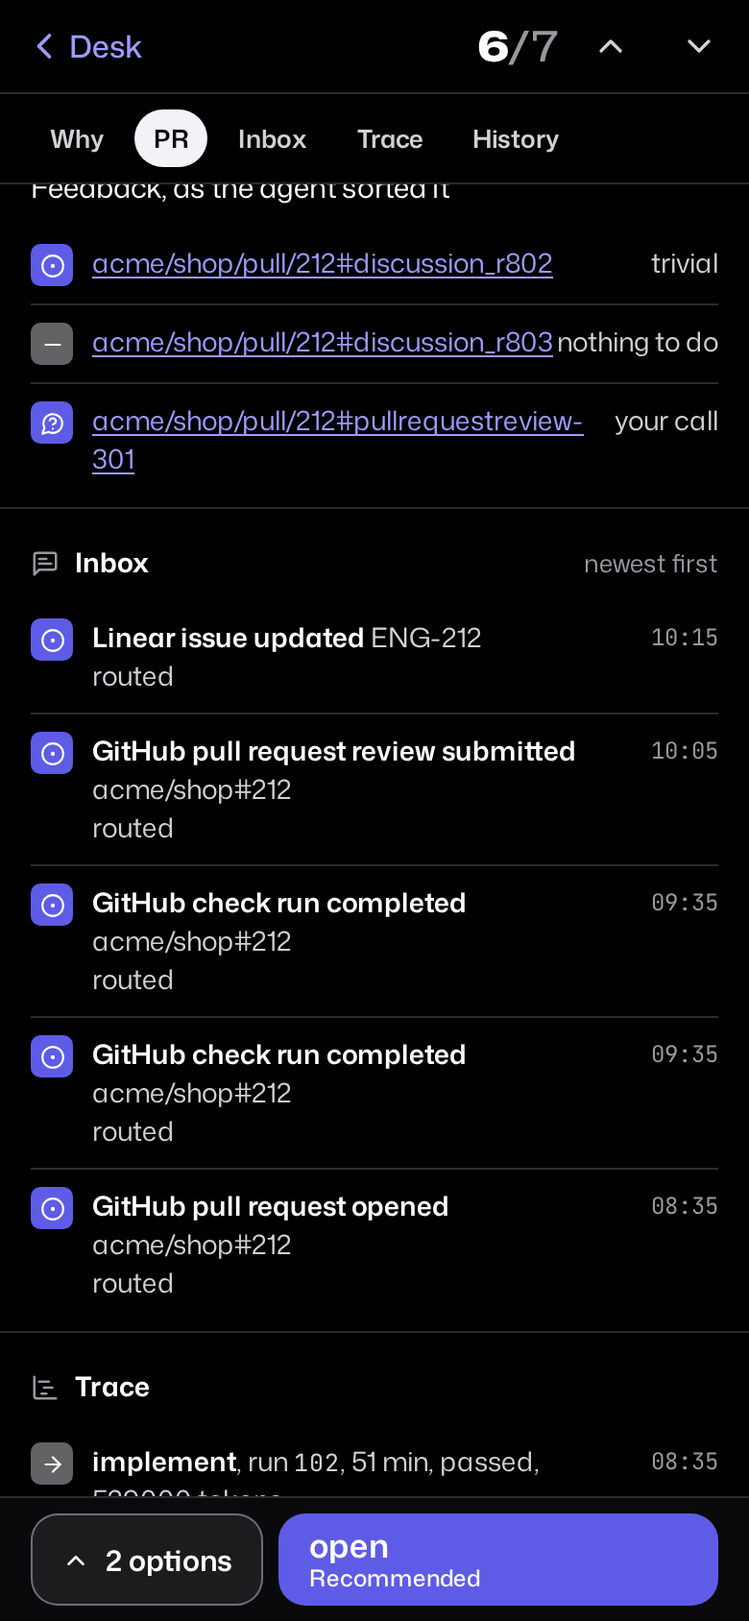
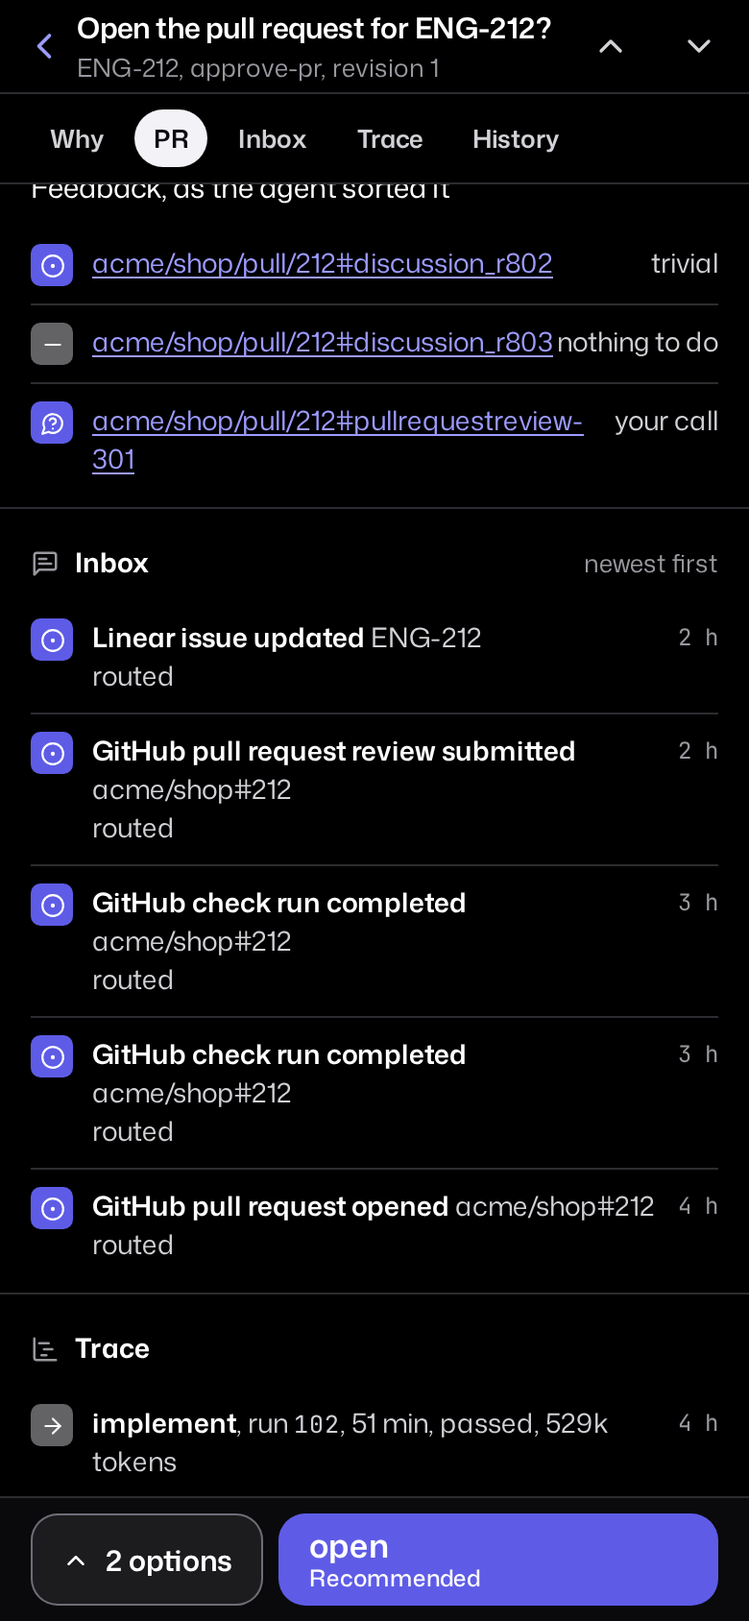
Keep the phone's ask header, capsule, rows and small links usable (#322)
* Keep the phone's ask header, capsule, rows and small links usable

On a phone, the ask detail's header now shrinks to the question over
its task key, step and revision once the options scroll away, as
DESIGN.md asks. Offline, the Answer capsule leaves the primary look and
reads "Read 7 asks, offline". Task rows name the step once when it is
the workflow's name and wrap a long step instead of cutting it. The ask
and batch context lines, task keys in rows and another runner's chevron
take a 44 px hit area on coarse pointers.

The design review's m3 "0 min ago" was already fixed on main.

* Shrink the ask header only past the options, and scope the wider hit areas

The header shrank whenever the options were out of view, including
below the fold on opening, and lost its shrink while an answer was
sending. It now shrinks once the options pass above the view, with or
without the answer bar. The collapsed back link keeps 44 px.

A row's task key no longer takes a hit area that could cover a link on
the row's second line; only the batch page's keys and the context lines
do. A step wraps long words instead of overflowing.

diff --git a/crates/priory-core/web/app.js b/crates/priory-core/web/app.js
@@ -1,6 +1,6 @@
 // Priory's web view (DESIGN.md): the frame, the Desk and the Asks, with answering through the CLI's verbs.
 // Agent text is untrusted: every value goes through `html`, which escapes it.
-import { ARM_MS, ASK_VIEWS, answeredBy, askGroups, openAsksOf, routedMark, routedNote, runnerOf, seenAgo, sentNote, shownGroups, snoozeShortcut, snoozed, stillArmed, submitted, takesText, writeNote } from "./asks.js";
+import { ARM_MS, ASK_VIEWS, answeredBy, askGroups, openAsksOf, routedMark, routedNote, runnerOf, seenAgo, sentNote, shownGroups, shrunkHead, snoozeShortcut, snoozed, stillArmed, submitted, takesText, writeNote } from "./asks.js";
 import { SPLITS, attentionView, costTiles, dayBars, money, scoreTable, splitTable } from "./costs.js";
 import { addBody, addOutcome } from "./add.js";
 import { linked } from "./links.js";
@@ -11,8 +11,8 @@ import { KINDS, edgeStyle, historyRows, lockBadge, nodeShape, timeline, ungatedP
 import { emptyDetail, eventWords, handled, neverOwned, sinceWords, routeAction, unheardActs, unheardNote, unroutedNote } from "./inbox.js";
 import { editBody, issueName, laneLayout, momentWords, stages, successors } from "./batches.js";
 import { EARLIER_CAP, KEYS, keyboardSession, paintRows, sayLine, screenRows, screenWatch } from "./terminal.js";
-import { actionNote, batchParts, countWords, dueParts, memoryNote, memoryTag, mergeSince, nextLink, onRoom, progressView, rowAction, sectionInView, sinceGroups } from "./desk.js";
-import { TASK_VIEWS, elsewhere, filtered, olderPart, remoteActs, remoteId, remoteSent, taskFacets, taskLabel, taskViews, triageWords } from "./tasks.js";
+import { actionNote, batchParts, capsuleWords, countWords, dueParts, memoryNote, memoryTag, mergeSince, nextLink, onRoom, progressView, rowAction, sectionInView, sinceGroups } from "./desk.js";
+import { TASK_VIEWS, elsewhere, filtered, olderPart, remoteActs, remoteId, remoteSent, taskFacets, taskLabel, taskViews, triageWords, workStep } from "./tasks.js";
 import { RUN_FACETS, RUN_VIEWS, duration, runState, runViews, tokenText } from "./runs.js";
 import { PANELS, backTo, pageTitle } from "./pages.js";
 import { QUEUE_VIEWS, moveOptions, queueBands, waitReason } from "./queue.js";
@@ -579,7 +579,7 @@ function asleepRow(task) {
   const waits = (task.waits || []).map((wait) => `${wait.kind} ${wait.on}, ${age(wait.since)}`).join("; ");
   return html`<a class="row" href="/tasks/${task.id}">
     ${tile("asleep")}
-    <span class="l1"><span class="mono">${taskLabel(task.key)}</span><span>${task.workflow} ${task.step}</span><span>asleep</span>${prsTag(task)}<span class="age">${timeTag(task.since)}</span></span>
+    <span class="l1"><span class="mono">${taskLabel(task.key)}</span><span>${workStep(task)}</span><span>asleep</span>${prsTag(task)}<span class="age">${timeTag(task.since)}</span></span>
     <span class="l2 r">${task.title || task.lane || ""}</span>
     <span class="l3"><span>${waits ? `Waits on ${waits}` : "Waits on an ask"}</span></span>
     <span class="chev">${icon("chevron-right", "s15")}</span></a>`;
@@ -595,7 +595,7 @@ const prsTag = (task, id) => {
 function taskRow(task) {
   return html`<div class="row">
     ${tile(task.state)}
-    <span class="l1"><span class="mono">${taskLabel(task.key)}</span><span>${task.workflow} ${task.step}</span><span>${task.state}</span>${prsTag(task)}<span class="age">${timeTag(task.since)}</span></span>
+    <span class="l1"><span class="mono">${taskLabel(task.key)}</span><span>${workStep(task)}</span><span>${task.state}</span>${prsTag(task)}<span class="age">${timeTag(task.since)}</span></span>
     <span class="l2 r ${task.reason ? `t-${role(task.state)}` : ""}">${autolinked(task.reason || task.tldr || task.title || task.lane || "", task.repo)}</span></div>`;
 }
 
@@ -855,7 +855,8 @@ const addButton = (kind) => html`<button class="${kind}" data-action="add-open" 
 // On a phone the Add button sits beside the capsule, or alone where the capsule hides.
 function capsule(model) {
   const n = model.open.length;
-  const answer = n && deskView() === "needs" ? html`<a class="capsule" href="/asks/${model.first.id}">${icon("ask", "s20")}Answer ${n} ${n === 1 ? "ask" : "asks"}</a>` : "";
+  const words = capsuleWords(n, Boolean(state.failed));
+  const answer = n && deskView() === "needs" ? html`<a class="capsule ${words.off ? "off" : ""}" href="/asks/${model.first.id}">${icon(words.icon, "s20")}${words.text}</a>` : "";
   return html`<div class="fade"></div><div class="dock">${answer}${addButton("fab")}</div>`;
 }
 
@@ -965,7 +966,7 @@ function taskListRow(task) {
   if (elsewhere(task, ago)) return remoteListRow(task);
   const line3 = reasonShown(task) ? html`<span class="t-${role(task.state)}">${task.reason}</span>${batchTag(task)}` : html`<span>${task.lane || ""}</span><span>${task.band || ""}</span>${batchTag(task)}`;
   return html`<div class="row" data-href="/tasks/${task.id}">${tile(task.state)}
-    <span class="l1"><a class="mono" href="/tasks/${task.id}" title="task ${task.id}">${taskLabel(task.key)}</a><span>${task.workflow} ${task.step}</span><span>${task.state}</span>${prsTag(task)}<span class="age">${timeTag(task.since)}</span></span>
+    <span class="l1"><a class="mono" href="/tasks/${task.id}" title="task ${task.id}">${taskLabel(task.key)}</a><span>${workStep(task)}</span><span>${task.state}</span>${prsTag(task)}<span class="age">${timeTag(task.since)}</span></span>
     <span class="l2 r">${task.title || task.tldr || ""}</span><span class="l3">${line3}</span><span class="chev">${icon("chevron-right", "s15")}</span></div>`;
 }
 
@@ -1111,8 +1112,9 @@ function askDetail(id, wide) {
   const nav = (to, label, name) => (to
     ? html`<a class="iconbtn" href="/asks/${to.id}" aria-label="${label}">${icon(name, "s20")}</a>`
     : html`<span class="iconbtn" aria-disabled="true" aria-label="${label}">${icon(name, "s20")}</span>`);
+  const shrunk = shrunkHead(ask);
   const header = html`<div class="ahead">
-    ${wide ? html`<span class="ctx">${tile("ask", "sm")}<span>ask <span class="mono">#${ask.id}</span></span><span>revision ${ask.revision}</span><span>${timeTag(ask.since)}</span></span>` : html`<a class="back" href="${back[0]}">${icon("chevron-left", "s22")}${back[1]}</a>`}
+    ${wide ? html`<span class="ctx">${tile("ask", "sm")}<span>ask <span class="mono">#${ask.id}</span></span><span>revision ${ask.revision}</span><span>${timeTag(ask.since)}</span></span>` : html`<a class="back" href="${back[0]}" aria-label="${back[1]}">${icon("chevron-left", "s22")}<span>${back[1]}</span></a><span class="aq" aria-hidden="true"><b>${shrunk.question}</b><small>${shrunk.place}</small></span>`}
     ${at >= 0 ? html`<span class="pos num">${at + 1}<span>/${open.length}</span></span>` : html`<span class="sp"></span>`}
     ${nav(open[at - 1], "Previous ask", "chevron-up")}${nav(open[at + 1], "Next ask", "chevron-down")}
     ${wide ? html`<a class="iconbtn" href="${back[0]}" aria-label="Close">${icon("x", "s20")}</a>` : ""}</div>`;
@@ -1478,7 +1480,7 @@ function taskPage(id) {
     <textarea id="say" name="text" rows="2" placeholder="Say to the agent">${state.sayDrafts.get(task.id) || ""}</textarea><button class="btn primary" ${said}>Say</button></form>`;
   const sections = taskSections(task).map(([, , section]) => section);
   return html`${back}<div class="scroll"><div class="ask task">
-    <p class="ctx">${tile(task.state, "sm")}<span class="mono">${taskLabel(task.key)}</span><span>${task.state}</span><span>${task.workflow} ${task.step}</span><span>${task.lane || ""}</span><span>${task.band || ""}</span>${task.batch == null ? "" : html`<a href="/batches/${task.batch}">batch ${task.batch}</a>`}</p>
+    <p class="ctx">${tile(task.state, "sm")}<span class="mono">${taskLabel(task.key)}</span><span>${task.state}</span><span>${workStep(task)}</span><span>${task.lane || ""}</span><span>${task.band || ""}</span>${task.batch == null ? "" : html`<a href="/batches/${task.batch}">batch ${task.batch}</a>`}</p>
     <h1 class="question">${autolinked(task.tldr || task.brief?.title || task.brief?.request?.split("\n")[0] || taskLabel(task.key), task.repo)}</h1>
     ${task.reason ? html`<p class="text t-${role(task.state)}">${autolinked(task.reason, task.repo)}</p>` : ""}
     ${taskAsks(task)}${taskActs(task.id, task.state)}${say}</div>${sections}${terminalSection(task)}</div>`;
@@ -2389,7 +2391,7 @@ function addedTask() {
   return html`<div class="added" role="status">
     <p class="line">Added. The task waits in the queue for its turn.</p>
     <div class="row">${tile(task.state)}
-      <span class="l1"><span class="mono">${taskLabel(task.key)}</span><span>${[task.workflow, task.step !== task.workflow && task.step].filter(Boolean).join(", ")}</span><span class="age">${task.state}</span></span>
+      <span class="l1"><span class="mono">${taskLabel(task.key)}</span><span>${workStep(task)}</span><span class="age">${task.state}</span></span>
       <span class="l2">${task.brief?.request || task.brief?.title || (id === null ? "No task took this key yet. It shows on the Desk once one does." : "")}</span>
       <span class="l3">${[task.band, task.lane].filter(Boolean).join(", ")}</span></div>
     <div class="acts"><button class="btn secondary" data-action="add-another">Add another</button><button class="btn primary" data-action="add-done">Close</button></div></div>`;
@@ -3039,8 +3041,13 @@ function watchSections(app) {
     }
     const options = scroller.querySelector(".opts");
     const bar = app.querySelector(".abar");
-    if (!options || !bar) continue;
-    track(new IntersectionObserver(([entry]) => { bar.hidden = entry.isIntersecting; }, { root: scroller })).observe(options);
+    const head = app.querySelector(".ahead:has(.aq)");
+    if (!options || !(bar || head)) continue;
+    track(new IntersectionObserver(([entry]) => {
+      if (bar) bar.hidden = entry.isIntersecting;
+      // Only options scrolled past shrink the header; options still below the fold leave it whole.
+      head?.classList.toggle("shrunk", !entry.isIntersecting && entry.boundingClientRect.bottom <= (entry.rootBounds?.top ?? 0));
+    }, { root: scroller })).observe(options);
   }
 }
 

diff --git a/crates/priory-core/web/app.css b/crates/priory-core/web/app.css
@@ -114,11 +114,13 @@ a.facet[aria-current="true"] { background: var(--action-soft); color: var(--acti
 .row:active { background: var(--raised); }
 .row[aria-current="true"] { background: var(--action-soft); box-shadow: inset 3px 0 var(--action); }
 .row .tile { grid-row: 1 / 4; margin-top: 2px; }
-.row .l1 { display: flex; gap: 8px; align-items: baseline; font: 400 var(--type-caption) var(--font-ui); color: var(--text-3); min-width: 0; }
+.row .l1 { display: flex; gap: 2px 8px; align-items: baseline; font: 400 var(--type-caption) var(--font-ui); color: var(--text-3); min-width: 0; }
 .row .l1 .mono { color: var(--text); }
 .row .l1 .tag.routed { min-width: 0; overflow: hidden; text-overflow: ellipsis; }
 .row .l1 .tag.runner, .row .l1:has(.tag.runner) > .mono { flex: none; }
-.row .l1:has(.tag.runner) > span:nth-child(2) { min-width: 5ch; overflow: hidden; text-overflow: ellipsis; white-space: nowrap; }
+/* A step never truncates: its words wrap in place, and a row with tags wraps its tags first. */
+.row .l1:has(.tag) { flex-wrap: wrap; }
+.row .l1:has(.tag) > span:nth-child(2) { flex: 0 1 auto; min-width: 0; overflow-wrap: anywhere; }
 .row .l1 .age { margin-left: auto; white-space: nowrap; }
 .row .l2 { grid-column: 2; font: 500 var(--type-body) var(--font-ui); display: -webkit-box; -webkit-line-clamp: 2; -webkit-box-orient: vertical; overflow: hidden; overflow-wrap: anywhere; }
 .row .l2.r { font-size: 14px; }
@@ -155,6 +157,7 @@ a.facet[aria-current="true"] { background: var(--action-soft); color: var(--acti
 
 /* Answer capsule */
 .capsule { position: absolute; left: var(--gutter); right: var(--gutter); bottom: var(--capsule-gap); height: var(--capsule); border-radius: var(--radius-full); background: var(--action); color: var(--on-action); display: flex; align-items: center; justify-content: center; gap: 8px; font: 600 var(--type-option) var(--font-ui); box-shadow: var(--shadow-float); z-index: 2; }
+.capsule.off { background: var(--surface); color: var(--warn-text); box-shadow: var(--shadow-float), inset 0 0 0 1px var(--control-line); }
 .fade { position: absolute; left: 0; right: 0; bottom: 0; height: var(--desk-end); background: linear-gradient(to bottom, transparent, var(--bar) 45%); z-index: 1; pointer-events: none; }
 
 /* Ask: question, recommendation, options */
@@ -178,6 +181,14 @@ a.facet[aria-current="true"] { background: var(--action-soft); color: var(--acti
 .pos span { color: var(--text-3); font-weight: 500; }
 .ahead .iconbtn { width: 40px; color: var(--text-2); }
 .ahead .iconbtn[aria-disabled="true"] { color: var(--text-3); opacity: 0.5; }
+/* Once the options scroll away on a phone, the header shrinks to the question over its place. */
+.ahead .aq { display: none; flex: 1; min-width: 0; flex-direction: column; gap: 1px; }
+.ahead .aq b, .ahead .aq small { overflow: hidden; text-overflow: ellipsis; white-space: nowrap; }
+.ahead .aq b { font: 600 var(--type-body) var(--font-ui); }
+.ahead .aq small { font: 400 var(--type-caption) var(--font-ui); color: var(--text-3); }
+.ahead.shrunk .aq { display: flex; }
+.ahead.shrunk .back { min-width: var(--control); justify-content: center; padding: 0; }
+.ahead.shrunk .back span, .ahead.shrunk .pos { display: none; }
 .ask { display: flex; flex-direction: column; gap: 14px; padding: 4px var(--gutter) 16px; }
 .taskasks { display: grid; gap: 8px; }
 .taskasks li { display: grid; grid-template-columns: auto minmax(0, 1fr) auto; gap: 10px; align-items: center; padding: 10px 12px; border: 1px solid var(--line); border-radius: var(--radius-md); font: 500 var(--type-small) var(--font-ui); overflow-wrap: anywhere; }
@@ -376,8 +387,8 @@ textarea { font: 400 16px/22px var(--font-ui); color: var(--text); background: v
 .opt[aria-disabled="true"]:not(.rec-opt):not(.chosen), .abar .btn.secondary[aria-disabled="true"] { color: var(--text-3); }
 .medium.no-drawer, .compact.no-drawer { display: flex; flex-direction: column; }
 @media (pointer: coarse) {
-  .views a, .jump a, .facet > summary, a.facet { position: relative; }
-  .views a::after, .jump a::after, .facet > summary::after, a.facet::after {
+  .views a, .jump a, .facet > summary, a.facet, a.ctx, .ctx a, .erow .l1 a.mono, .remote .chev { position: relative; }
+  .views a::after, .jump a::after, .facet > summary::after, a.facet::after, a.ctx::after, .ctx a::after, .erow .l1 a.mono::after, .remote .chev::after {
     content: ""; position: absolute;
     inset: calc(50% - var(--control) / 2) min(0px, calc(50% - var(--control) / 2));
   }
@@ -414,7 +425,7 @@ textarea { font: 400 16px/22px var(--font-ui); color: var(--text); background: v
 .row .l1 a.mono { color: var(--text); text-decoration: underline; text-underline-offset: 2px; }
 .row .acts-note { grid-column: 2; }
 .row.remote, .tbl tr.remote { cursor: pointer; }
-.remote .chev { background: none; border: 0; padding: 0; color: var(--text-3); cursor: pointer; }
+.remote .chev { min-width: 24px; min-height: 24px; display: inline-grid; place-items: center; background: none; border: 0; padding: 0; color: var(--text-3); cursor: pointer; }
 .tbl tr.remote .chev { vertical-align: -3px; }
 .row.remote .writeform { grid-column: 2; padding-left: 0; margin-top: var(--space-1); }
 .tbl tr.remote-acts td { border-top: 0; height: auto; padding-bottom: var(--space-3); white-space: normal; overflow: visible; cursor: default; }
@@ -629,7 +640,7 @@ textarea { font: 400 16px/22px var(--font-ui); color: var(--text); background: v
 .row .l1 a.mono { text-decoration: none; }
 .tbl td.mono a { color: inherit; text-decoration: none; }
 .row[data-href] .l1 > * { white-space: nowrap; flex: none; }
-.row[data-href] .l1 > span:nth-child(2) { flex: 0 1 auto; min-width: 0; overflow: hidden; text-overflow: ellipsis; }
+.row[data-href] .l1 > span:nth-child(2) { flex: 0 1 auto; min-width: 0; white-space: normal; overflow-wrap: anywhere; }
 .row[data-href] .l3 > span { overflow: hidden; text-overflow: ellipsis; }
 .row .l3 .tag .ico, .tbl .tag .ico { margin-right: 3px; vertical-align: -2px; }
 .tbl .t3 { color: var(--text-3); }

diff --git a/crates/priory-core/web/asks.test.js b/crates/priory-core/web/asks.test.js
@@ -1,6 +1,6 @@
 import { test } from "node:test";
 import assert from "node:assert/strict";
-import { ASK_VIEWS, answeredBy, askGroups, routedMark, routedNote, runnerOf, submitted, seenAgo, sentNote, shownGroups, snoozeShortcut, stillArmed, takesText, openAsksOf, writeNote } from "./asks.js";
+import { ASK_VIEWS, answeredBy, askGroups, routedMark, routedNote, runnerOf, submitted, seenAgo, sentNote, shownGroups, snoozeShortcut, stillArmed, takesText, openAsksOf, writeNote, shrunkHead } from "./asks.js";
 
 const now = Date.parse("2026-11-20T12:00:00Z");
 const ask = (id, fields) => ({ id, state: "open", snoozed_until: null, ...fields });
@@ -163,4 +163,9 @@ test("a task page lists its task's open asks, snoozed ones too, oldest first", (
   ];
   assert.deepEqual(openAsksOf(asks, 7).map((ask) => ask.id), [3, 4]);
   assert.deepEqual(openAsksOf(asks, 9), []);
+});
+
+test("the shrunk header names the question over the task key, step and revision", () => {
+  assert.deepEqual(shrunkHead({ key: "linear:ENG-212", step: "approve-pr", revision: 2, title: "Open the pull request", question: "Open the pull request for ENG-212?" }), { question: "Open the pull request for ENG-212?", place: "ENG-212, approve-pr, revision 2" });
+  assert.deepEqual(shrunkHead({ key: null, step: "deploy", revision: 1, title: "Deploy", question: null }), { question: "Deploy", place: "deploy, revision 1" });
 });

diff --git a/crates/priory-core/web/desk.test.js b/crates/priory-core/web/desk.test.js
@@ -1,6 +1,6 @@
 import { test } from "node:test";
 import assert from "node:assert/strict";
-import { nextLink, onRoom, sinceGroups, mergeSince, progressView, sectionInView, dueText, rowAction, actionNote, batchParts, countWords, memoryNote, memoryTag } from "./desk.js";
+import { nextLink, onRoom, sinceGroups, mergeSince, progressView, sectionInView, dueText, rowAction, actionNote, batchParts, countWords, memoryNote, memoryTag, capsuleWords } from "./desk.js";
 
 const why = "work stopped and waits on a person";
 
@@ -151,4 +151,10 @@ test("the Desk's count line names every item Needs me counts besides the asks", 
   assert.equal(countWords({ oldest: null, stopped: 0, todos: 2, reports: 1, other: 0 }), "Also 2 to-dos and 1 report.");
   assert.equal(countWords({ oldest: null, stopped: 2, todos: 1, reports: 3, other: 1 }), "Also 2 stopped, 1 to-do, 3 reports and 1 waiting.");
   assert.equal(countWords({ ...none, oldest: null }), "");
+});
+
+test("the capsule answers while live, and only reads the asks while offline", () => {
+  assert.deepEqual(capsuleWords(7, false), { text: "Answer 7 asks", icon: "ask", off: false });
+  assert.deepEqual(capsuleWords(1, false), { text: "Answer 1 ask", icon: "ask", off: false });
+  assert.deepEqual(capsuleWords(7, true), { text: "Read 7 asks, offline", icon: "unplug", off: true });
 });

diff --git a/crates/priory-core/web/tasks.test.js b/crates/priory-core/web/tasks.test.js
@@ -1,6 +1,6 @@
 import { test } from "node:test";
 import assert from "node:assert/strict";
-import { TASK_FACETS, TASK_VIEWS, elsewhere, filtered, olderPart, remoteActs, remoteId, remoteSent, taskFacets, taskLabel, taskViews, triageWords } from "./tasks.js";
+import { TASK_FACETS, TASK_VIEWS, elsewhere, filtered, olderPart, remoteActs, remoteId, remoteSent, taskFacets, taskLabel, taskViews, triageWords, workStep } from "./tasks.js";
 
 // `/api/tasks` as the server sends it: in start order, ended tasks in it too.
 const tasks = [
@@ -93,4 +93,11 @@ test("a task is named by its key without its source", () => {
   assert.equal(taskLabel("cli:PRI-55"), "PRI-55");
   assert.equal(taskLabel("batch:2026-11-21-1"), "batch:2026-11-21-1");
   assert.equal(taskLabel(null), "");
+});
+
+test("a row names the step alone when it is the workflow's own name", () => {
+  assert.equal(workStep({ workflow: "implement", step: "implement" }), "implement");
+  assert.equal(workStep({ workflow: "implement", step: "approve-pr" }), "implement, approve-pr");
+  assert.equal(workStep({ workflow: "implement", step: null }), "implement");
+  assert.equal(workStep({ workflow: null, step: null }), "");
 });

diff --git a/crates/priory-core/web/asks.js b/crates/priory-core/web/asks.js
@@ -1,3 +1,5 @@
+import { taskLabel } from "./tasks.js";
+
 export const ASK_VIEWS = ["open", "snoozed", "answered", "all"];
 
 /** The groups of `askGroups` a saved view lists, in order. @param {string} view */
@@ -102,3 +104,9 @@ export function writeNote(status, body, ago, ask) {
   if (status === 504 || status === 0) return "The daemon may have applied this but did not confirm it. Check the ask's state before you send again.";
   return `Could not send: ${body?.error || `the server answered ${status}`}.`;
 }
+
+/** The ask detail's header once its options scroll away: the question, over the task key, step and revision. */
+export const shrunkHead = (ask) => ({
+  question: ask.question || ask.title,
+  place: [taskLabel(ask.key), ask.step, `revision ${ask.revision}`].filter(Boolean).join(", "),
+});

diff --git a/crates/priory-core/web/desk.js b/crates/priory-core/web/desk.js
@@ -140,3 +140,9 @@ export function countWords({ oldest, stopped, todos, reports, other }) {
   const also = rest.length > 1 ? `Also ${rest.slice(0, -1).join(", ")} and ${rest.at(-1)}.` : rest.length ? `Also ${rest[0]}.` : "";
   return [oldest && `Oldest waits ${oldest}.`, also].filter(Boolean).join(" ");
 }
+
+/** The Answer capsule's words for `n` open asks: offline it leaves the primary look and only opens the asks to read. */
+export function capsuleWords(n, offline) {
+  const asks = `${n} ${n === 1 ? "ask" : "asks"}`;
+  return offline ? { text: `Read ${asks}, offline`, icon: "unplug", off: true } : { text: `Answer ${asks}`, icon: "ask", off: false };
+}

diff --git a/adapters/herdr/mods/priory-runs/tasks.js b/adapters/herdr/mods/priory-runs/tasks.js
@@ -90,3 +90,6 @@ const TRIAGE_WORDS = { "nothing-to-do": "nothing to do", "persons-call": "your c
 
 /** A feedback item's class as the task page words it. */
 export const triageWords = (triage) => TRIAGE_WORDS[triage] || triage;
+
+/** A task's workflow and step as a row shows them: the step once when it is the workflow's name. @param {any} task */
+export const workStep = (task) => [task.workflow, task.step !== task.workflow && task.step].filter(Boolean).join(", ");

diff --git a/adapters/herdr/mods/priory-tasks/view.js b/adapters/herdr/mods/priory-tasks/view.js
@@ -90,3 +90,6 @@ const TRIAGE_WORDS = { "nothing-to-do": "nothing to do", "persons-call": "your c
 
 /** A feedback item's class as the task page words it. */
 export const triageWords = (triage) => TRIAGE_WORDS[triage] || triage;
+
+/** A task's workflow and step as a row shows them: the step once when it is the workflow's name. @param {any} task */
+export const workStep = (task) => [task.workflow, task.step !== task.workflow && task.step].filter(Boolean).join(", ");

diff --git a/crates/priory-core/web/tasks.js b/crates/priory-core/web/tasks.js
@@ -90,3 +90,6 @@ const TRIAGE_WORDS = { "nothing-to-do": "nothing to do", "persons-call": "your c
 
 /** A feedback item's class as the task page words it. */
 export const triageWords = (triage) => TRIAGE_WORDS[triage] || triage;
+
+/** A task's workflow and step as a row shows them: the step once when it is the workflow's name. @param {any} task */
+export const workStep = (task) => [task.workflow, task.step !== task.workflow && task.step].filter(Boolean).join(", ");

diff --git a/DESIGN.md b/DESIGN.md
@@ -443,6 +443,9 @@ selected row.
 
 - **The desk list ends with bottom padding of `--desk-end`**: the capsule's height plus its gap
   above and below, so the capsule never covers the last row when the list is scrolled to the end.
+- Offline, the capsule leaves the primary look: `--surface` with a `--control-line` edge, `unplug`
+  and `--warn-text`, reading "Read 3 asks, offline". It still opens the ask, whose options stay
+  disabled until the view reconnects.
 - The capsule hides when no ask is open. An empty desk shows: "No open asks. Agents ask here when
   they need you."
 - A round [Add](#add) button, `--capsule` wide and tall, sits at the right of the capsule with
@@ -674,7 +677,10 @@ did not show. Until then the options are disabled under a `layers` note, "Readin
 
 **Answer while reading.** On a phone, once the options scroll out of view:
 
-- The header shrinks to one line: the question, clamped, over the task key, step and revision.
+- The header shrinks to one line: the question, clamped, over the task key, step and revision,
+  such as "ENG-212, approve-pr, revision 1", once the options scroll above the view. Options still
+  below the fold leave the header whole. The back link keeps its chevron and drops its word, at
+  `--control` width, and the position leaves. Scrolling the options back restores the header.
 - The section chips stick under the header.
 - A **sticky answer bar** on `--bar`, `--answer-bar` tall, holds two buttons with
   `--radius-card`: a secondary "3 options" with `chevron-up`, and the recommended option as a
@@ -846,6 +852,10 @@ open Priory window when there is one.
   title. Line 3 is lane, band and the batch tag; a `blocked`, `held`, `failed` or `dropped` row
   shows its reason there instead of lane and band, in the role's text color, and keeps the batch tag. A run row's line 2 is its agent and
   model, line 3 its run id, outcome, duration and tokens.
+- **The step never truncates.** Line 1 names the step once when it equals the workflow's name,
+  "implement" rather than "implement implement", and "implement, approve-pr" otherwise. A long step
+  wraps its own words. A row with tags on line 1, such as a runner or Command, wraps the tags and
+  the age to a second line before it cuts the step.
 - **Wide**: a table, `--row-wide` (38 px) at least, with columns for state, key, title, workflow
   and step, lane, band and age (tasks), or state, run id, key, step, agent and model, outcome,
   duration, tokens and started (runs). A task's reason sits under its title. Numbers are right
@@ -1279,6 +1289,10 @@ run.
 
 - Touch targets are at least 44 by 44 px on coarse pointers and 24 by 24 px everywhere, with
   8 px between neighbours.
+- A link drawn smaller than that, such as an ask's or batch's context line, a task key on the batch
+  page or another runner's chevron, keeps its look and takes a transparent hit area of `--control`
+  height on coarse pointers, where no other link sits under it. A row's task key needs none: the
+  whole row opens the same task. A chevron button is 24 by 24 px at least everywhere.
 - Put the primary action of a screen in its bottom third on compact screens.
 - Every gesture has a visible button that does the same thing.
 - Allowed gestures: horizontal swipe between asks in an ask's detail and between tabs; pinch and

diff --git a/docs/reference/views.md b/docs/reference/views.md
@@ -42,7 +42,7 @@ Open and waits in Snoozed. On a phone, once the options scroll out of view, the 
 A batch's go ask shows the plan as a lane graph, and each entry's menu moves or drops it before you
 answer. The desk's batch row opens the batch page, with each entry's state and when it starts.
 
-![The same ask scrolled to its pull request, checks and inbox events in dark mode, with the answer bar fixed at the bottom: "2 options" and "open, Recommended".](../images/web-view-answer-bar-390-dark.png)
+![The same ask scrolled to its pull request, checks and inbox events in dark mode. The header has shrunk to the question over "ENG-212, approve-pr, revision 1", and the answer bar is fixed at the bottom: "2 options" and "open, Recommended".](../images/web-view-answer-bar-390-dark.png)
 
 The web view's Tasks panel lists every task, with the saved views Active, Blocked and Ended and
 filters by state, lane and workflow; each row opens the task's page, and a batch's entries link to
